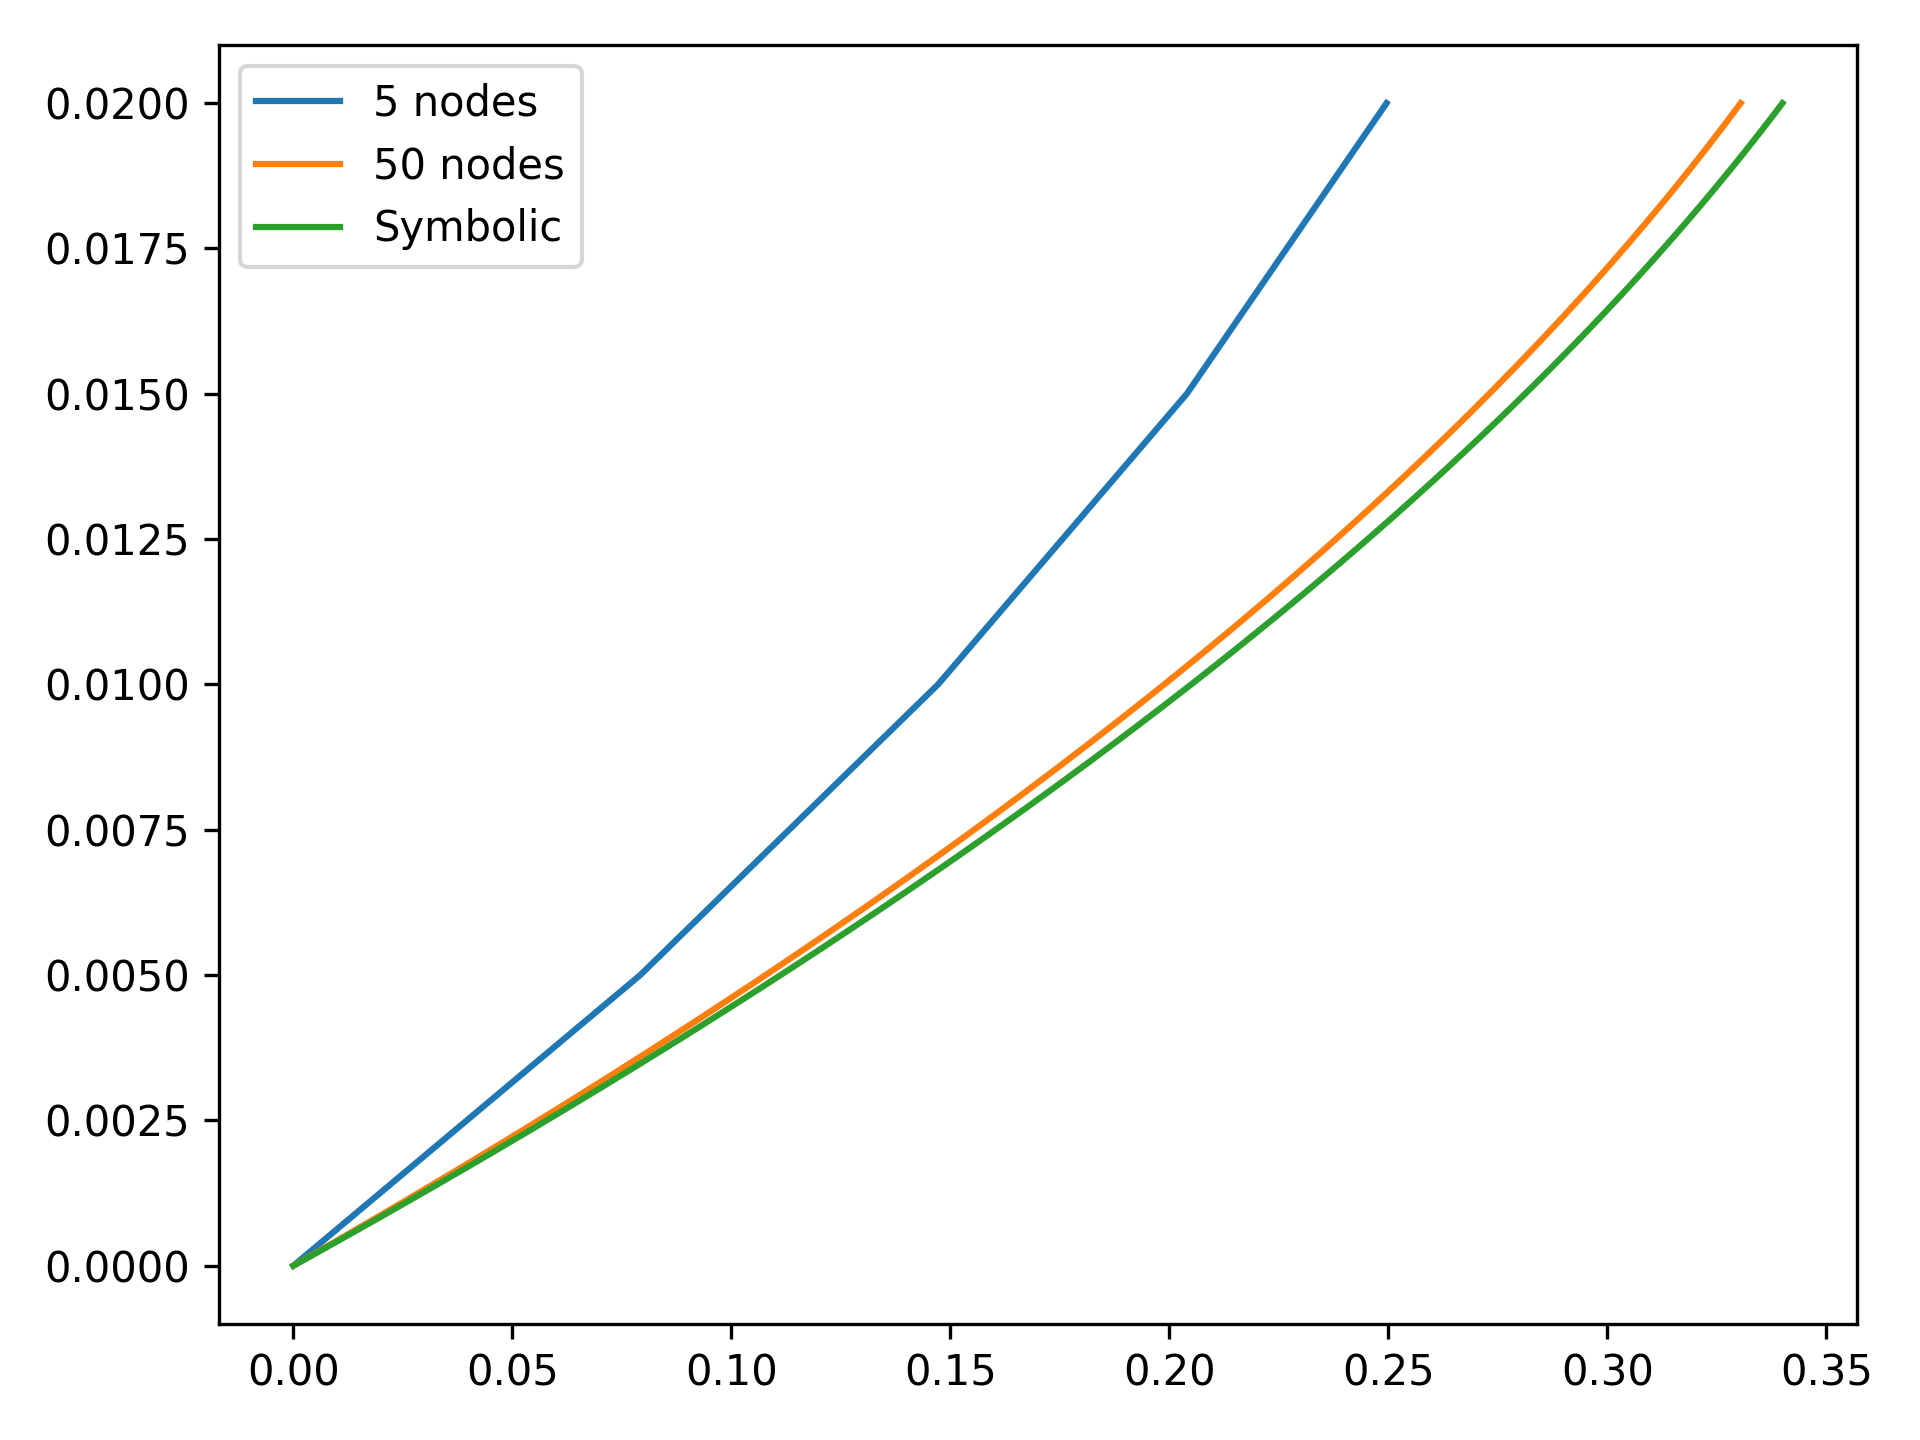
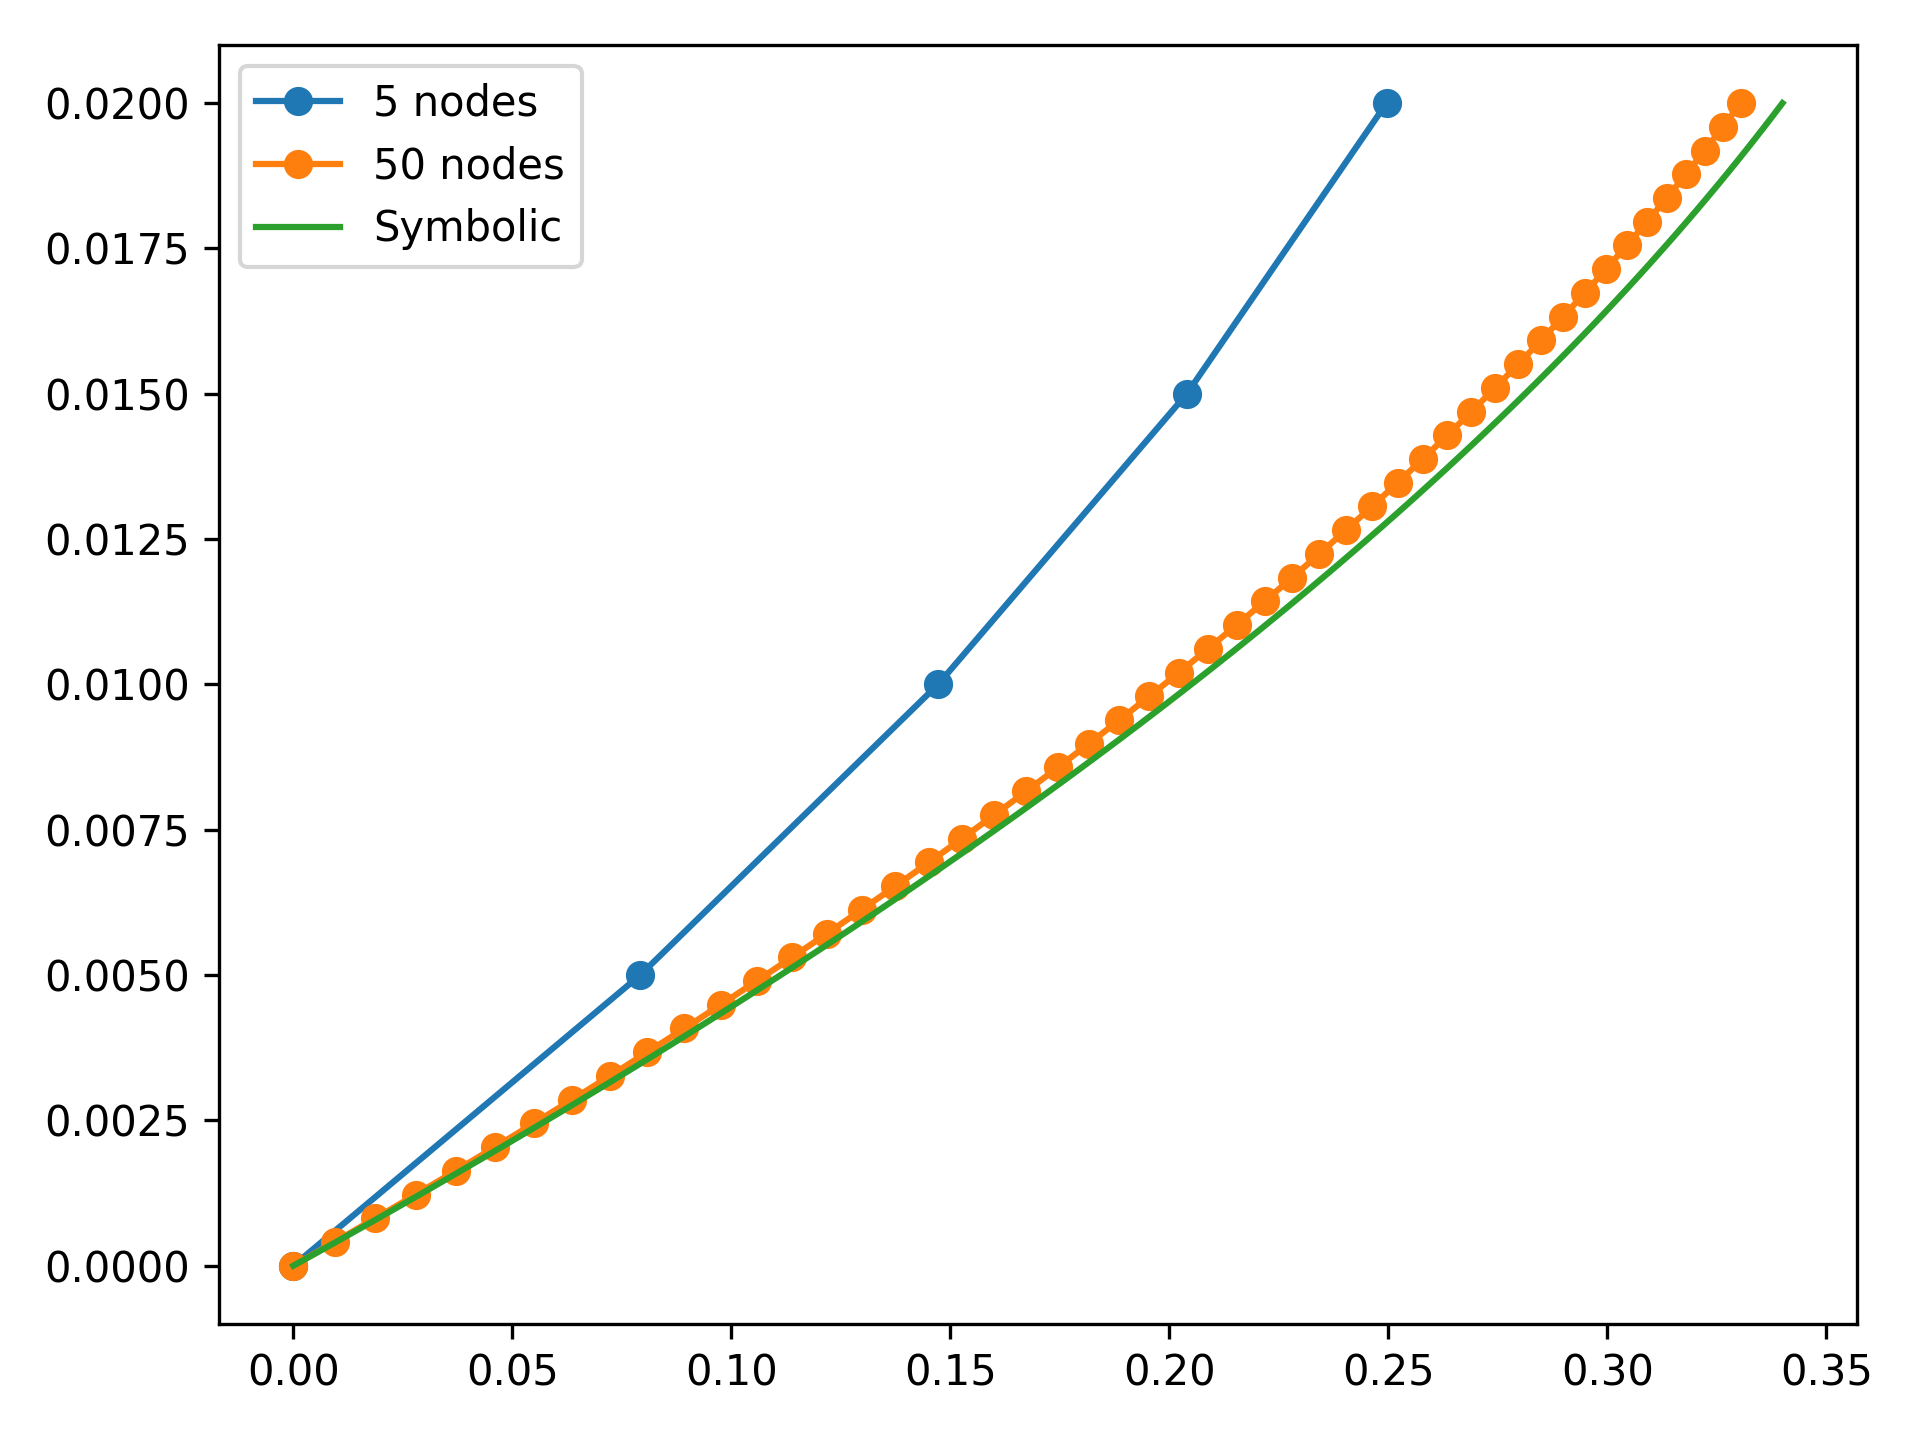
New program for helping with symbolic

diff --git a/src/ME6570/hw3.py b/src/ME6570/hw3.py
@@ -6,5 +6,188 @@ Solution to John Cotton's HW3 in ME6570
 
 import numpy as np
 import matplotlib.pyplot as plt
+import os
+
+# Where to save the figures
+PROJECT_ROOT_DIR = "."
+IMAGES_PATH = os.path.join(PROJECT_ROOT_DIR, "images", "ME6570", "HW4")
+os.makedirs(IMAGES_PATH, exist_ok=True)
+def save_fig(fig_id, tight_layout=True, fig_extension="png", resolution=300):
+    path = os.path.join(IMAGES_PATH, fig_id + "." + fig_extension)
+    print("Saving figure", fig_id)
+    if tight_layout:
+        plt.tight_layout()
+    plt.savefig(path, format=fig_extension, dpi=resolution)
 
 
+def solve_couette(mu, dpdx, tau, h, n_nodes):
+    n_elements = n_nodes-1
+    h_e = h/n_nodes
+    K = get_kgl(mu, h_e, n_elements)
+    F = get_load(h_e, dpdx, tau, n_nodes)
+
+    method = 3
+    K, F = apply_EBC(K, F, method)
+
+    d = np.linalg.solve(K,F)
+    u = d  # the weights are equal to the estimate at the nodes
+    if method == 1:
+        u[-1] = u[-1] + 20  # EBC application METHOD A
+    x = np.linspace(0, h, n_nodes)
+
+    return x, u
+
+def get_kgl(mu, h_e, n_elements):
+    """
+    Gets the stiffness matrix
+    
+    Parameters:
+        mu (float): Elastic modulus
+        h_e (float): Element length
+        n_elements (int): Number of elements
+    
+    Returns:
+        K (ndarray): Stiffness matrix
+    """
+
+    A = mu/h_e
+    B = -mu/h_e
+    kelm = np.array([[A, B], [B, A]])
+
+    iconn = getConn(n_elements) # connectivity matrix (assumed to be defined elsewhere)
+    
+    K = np.zeros((n_elements+1, n_elements+1)) # preallocate the stiffness matrix
+    for e in range(1, n_elements+1):
+        for i in range(1, 3): # indices i and j local, ii and jj global
+            for j in range(1, 3):
+                ii = iconn[e-1,i-1]
+                jj = iconn[e-1,j-1]
+                K[ii-1, jj-1] = K[ii-1, jj-1] + kelm[i-1, j-1]
+    
+    return K
+
+def getConn(n_elements):
+    """
+    Gets the connectivity matrix, a fairly standard array in FE codes, for a 1-D problem
+    
+    Parameters:
+        n_elements (int): Number of elements in the 1D problem
+    
+    Returns:
+        iconn (ndarray): The resulting connectivity matrix, which returns the global node
+                         number given element number (i) and local node number (j)
+    """
+
+    iconn = np.zeros((n_elements+1, 2), dtype=int) # initialize array for speed.
+    for ielem in range(1, n_elements+1):
+        iconn[ielem-1, 0] = ielem
+        iconn[ielem-1, 1] = ielem + 1
+    
+    return iconn
+
+def get_load(h_e, dpdx, tau, n_nodes):
+    """
+    Gets the load vector
+    
+    Parameters:
+        h_e (float): Element length
+        dpdx (float): Pressure gradient
+        tau (float): Applied shear stress
+        n_nodes (int): Number of nodes
+    
+    Returns:
+        F (ndarray): Load vector
+    """
+
+    # set up f1
+    f1 = np.zeros((n_nodes,1))
+    f1[n_nodes-1] = tau
+    
+    # set up f2
+    f2 = np.ones((n_nodes, 1))
+    f2[0] = 1/2
+    f2[n_nodes-1] = 1/2
+    f2 = -dpdx*h_e*f2
+    
+    F = f1 + f2
+    
+    return F
+
+def apply_EBC(K, F, method):
+    """
+    Applies the EBC by one of 3 methods presented in class
+    
+    Parameters:
+        K (ndarray): Stiffness matrix
+        F (ndarray): Load vector
+        method (int): Method for applying the EBC (1, 2, or 3)
+    
+    Returns:
+        K (ndarray): Updated stiffness matrix with EBCs applied
+        F (ndarray): Updated load vector with EBCs applied
+    """
+
+    n_nodes = len(F)
+    if method == 1:
+        K[n_nodes-1,:] = 0 
+        K[:, n_nodes-1] = 0 
+        K[n_nodes-1, n_nodes-1] = 1
+        F[n_nodes-1] = 0
+    elif method == 2:
+        K[n_nodes-1,:] = 0 
+        K[:, n_nodes-1] = 0 
+        K[n_nodes-1, n_nodes-1] = 1
+        F[n_nodes-1] = 0
+    elif method == 3:
+        BIG = K[0,0]*1e9
+        K[0, 0] = K[0, 0] + BIG
+#         F[n_nodes-2] = 0
+        F[0] = 0*BIG
+
+    return K, F
+
+
+
+
+
+
+
+
+
+
+
+
+
+
+
+
+
+
+
+# def main():
+
+mu = 0.01
+dpdx = -7
+tau = 0.1
+h = 0.02
+n_nodes = 5
+y, u = solve_couette(mu, dpdx, tau, h, n_nodes)
+y2, u2 = solve_couette(mu, dpdx, tau, h, 50)
+
+# Symbolic solution
+y_s = np.linspace(0, h, 100)
+u_s = (2*tau*y_s + dpdx*y_s**2 - 2*dpdx*h*y_s)/(2*mu)
+
+plt.figure()
+plt.plot(u,y, '-o', label='5 nodes')
+plt.plot(u2, y2, '-o', label='50 nodes')
+plt.plot(u_s, y_s, label='Symbolic')
+plt.legend()
+save_fig("solution")
+plt.show()
+
+
+
+
+# if __name__ == '__main__':
+#     main()

diff --git a/src/ME6570/hw4_n_solve.py b/src/ME6570/hw4_n_solve.py
@@ -1,0 +1,36 @@
+"""
+hw4_n_solve.py
+Created by Colton Wright on 2/19/2023
+
+Solve for the N basis functions for the 7th order approximation parent element
+
+"""
+
+import numpy as np
+import sympy as sym
+
+s_i = [-1, sym.Rational(-5,7), sym.Rational(-3,7), sym.Rational(-1,7), sym.Rational(1,7), sym.Rational(3,7), sym.Rational(5,7), 1]
+s = sym.symbols('s')
+n_elements = 3
+h = 0.3
+h_e = h/n_elements
+n_nodes = 22
+
+N = [1, 1, 1, 1, 1, 1, 1, 1]
+
+for i in range(0, 8): # This indexed through the N's, N1, N2, N3...
+
+
+    for j in range(0, 8):
+
+        if i != j: # If i=j, we just skip this loop
+
+            N[i] = N[i] * (s-s_i[j])/ (s_i[i]-s_i[j])
+
+    N[i] = sym.expand(N[i])
+    print("N_" + str(i+1) + ": ", N[i])
+    print("N_" + str(i+1) + "': ", sym.diff(N[i], s))
+    # sym.pprint(N[i])
+
+# All N_i functions are found for our problem, lets solve for reduced stiffness matrix...
+

diff --git a/src/ME6570/hw4.py b/src/ME6570/hw4.py
@@ -1,11 +1,13 @@
 """
-Solution to John Cotton's ME6570 HW4
-
+hw4.py
 Created by Colton Wright on 2/18/2023
+
+Solution to John Cotton's ME6570 HW4
 """
 
 import numpy as np
 import matplotlib.pyplot as plt
+from sympy import *
 import os
 
 # Where to save the figures
@@ -166,7 +168,6 @@ def apply_EBC(K, F, method):
 
 # def main():
 
-
 mu = 0.01
 dpdx = -7
 tau = 0.1
@@ -180,8 +181,8 @@ y_s = np.linspace(0, h, 100)
 u_s = (2*tau*y_s + dpdx*y_s**2 - 2*dpdx*h*y_s)/(2*mu)
 
 plt.figure()
-plt.plot(u,y, label='5 nodes')
-plt.plot(u2, y2, label='50 nodes')
+plt.plot(u,y, '-o', label='5 nodes')
+plt.plot(u2, y2, '-o', label='50 nodes')
 plt.plot(u_s, y_s, label='Symbolic')
 plt.legend()
 save_fig("solution")
